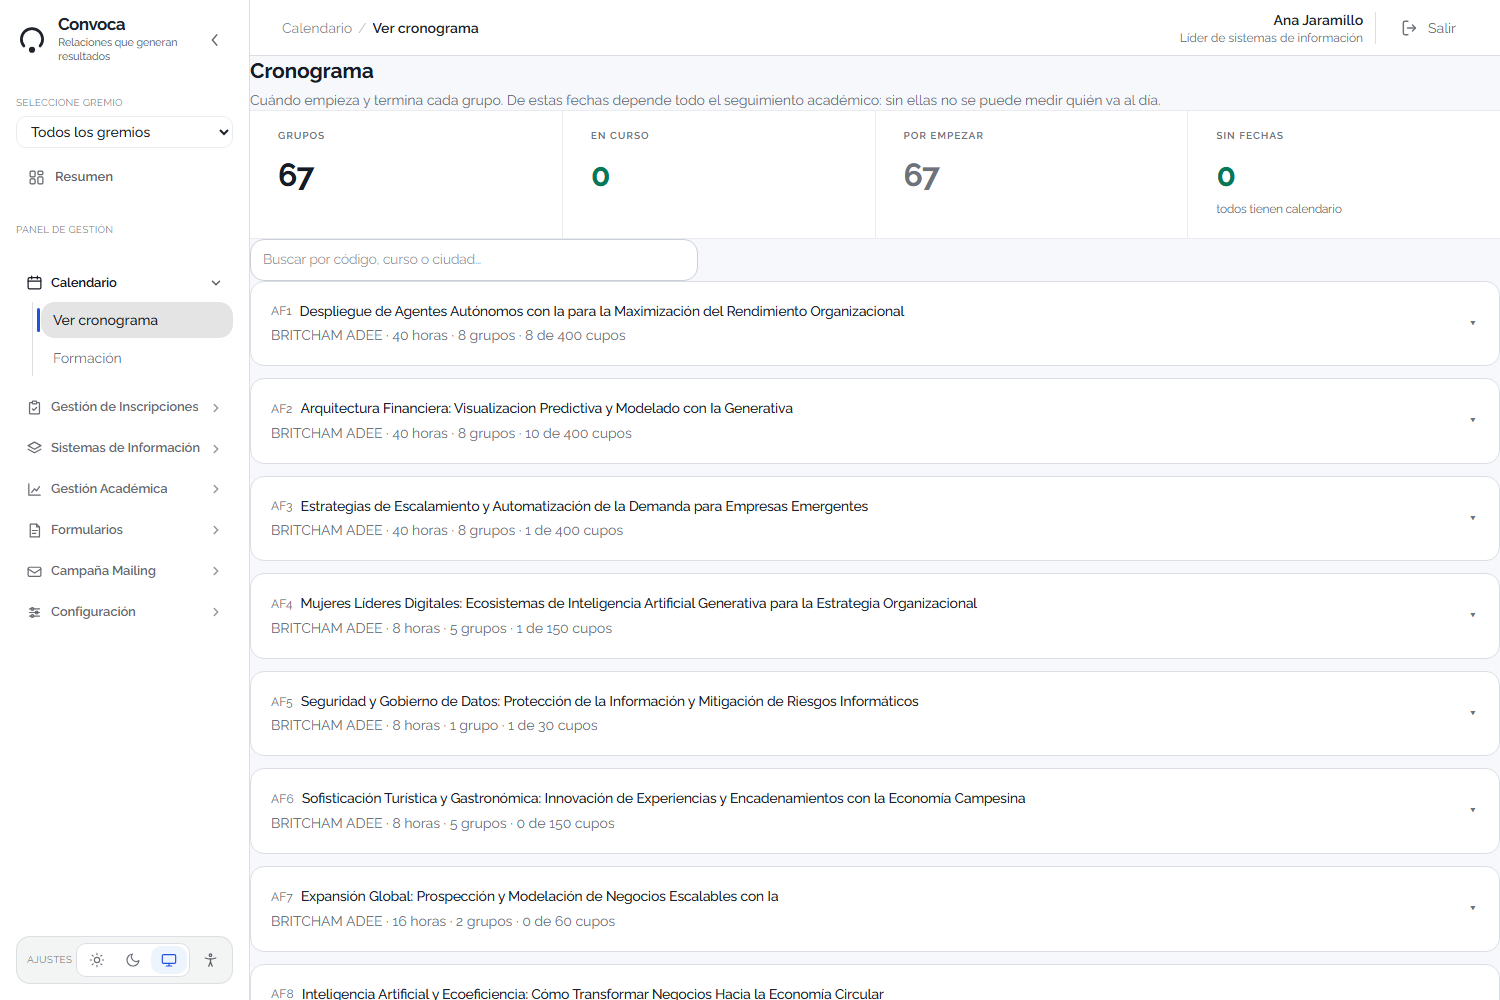
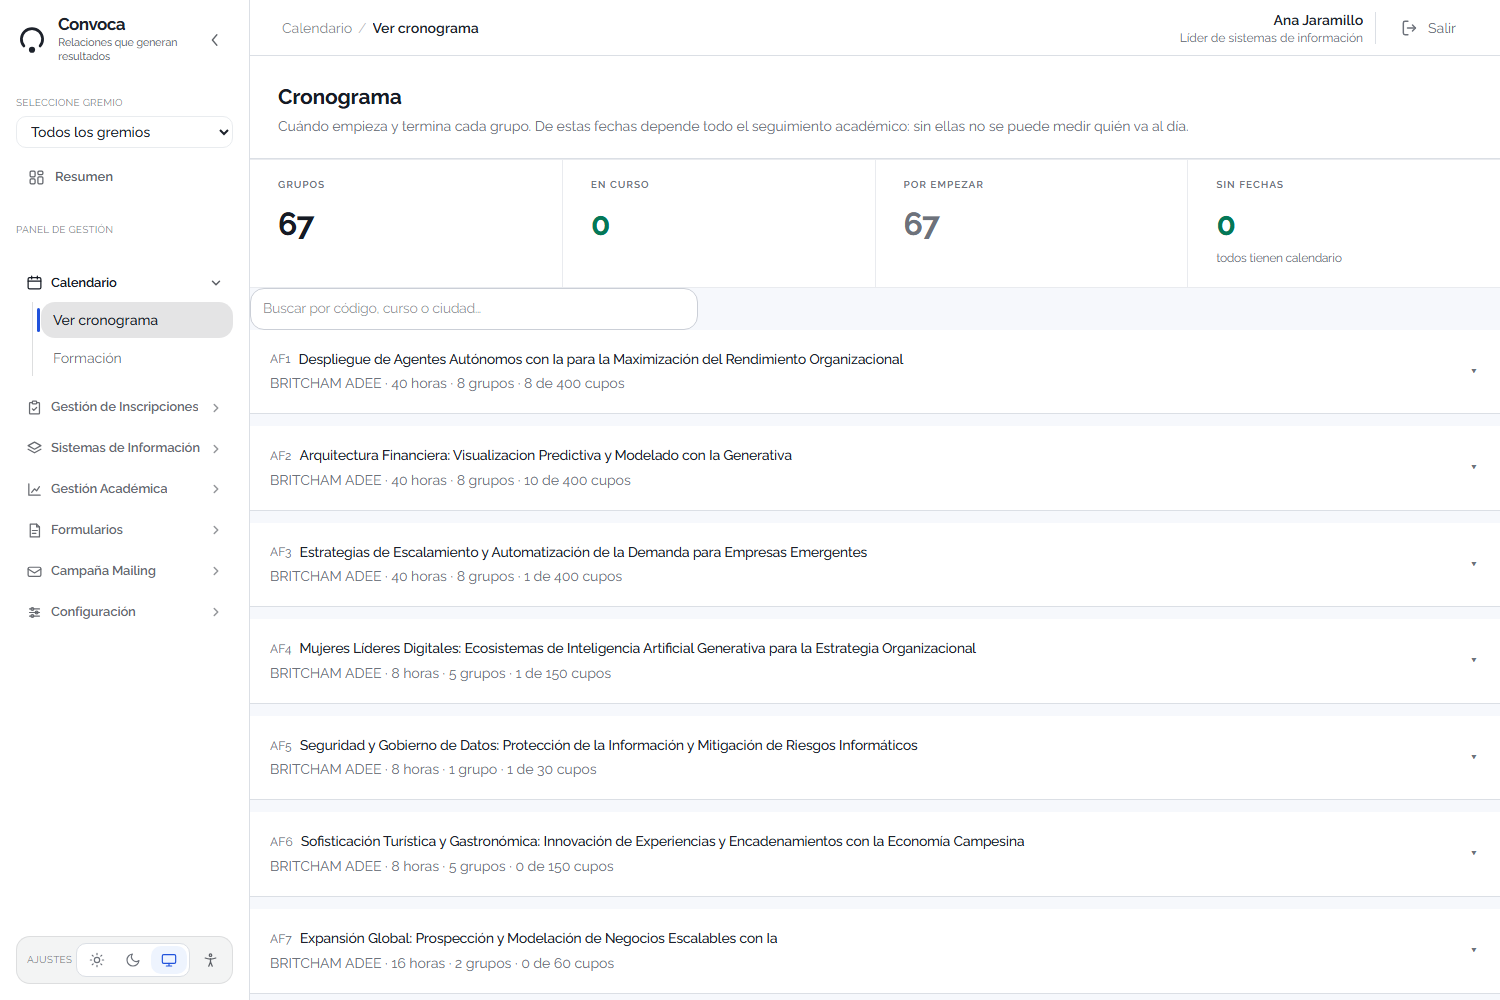
Cabeceras, relleno de las tablas y el primario en azul
Las 16 cabeceras que iban peladas pasan a banda con su relleno. El
contenedor dejo de poner el margen lateral para que las bandas
vayan a sangre, y sin esto el titulo quedaba pegado al canto.

Lo mismo en las cinco pantallas de tabla: el relleno lo pone ahora
la pantalla. La TABLA si sale entera, que es de trabajo y en un
monitor grande se aprovecha el ancho; lo que necesitaba margen era
la barra de busqueda y la paginacion.

Comprobado midiendo en el navegador, no a ojo: un guion recorre las
25 pantallas y avisa de todo lo que empiece a menos de 12px del
canto. Quedaban cinco; ahora ninguna.

Y el boton primario vuelve al azul de marca donde seguia en verde
-- «Guardar gestion», «Escribir un correo» y el rail de la ficha --,
que es lo que fija DECISIONES 10. Iban con el hexadecimal escrito a
mano, que ademas de ignorar el color del gremio no sabe que existe
el modo oscuro: ahora salen del token.

Las pildoras de estado que quedaban fuera de `Pildora` pasan
tambien a color en la letra. Solo las que llevaban `rounded-full`:
un fondo tenido en un toast, en un mensaje de error o en la opcion
elegida de un desplegable SI es el fondo del elemento, y ahi se
queda.

diff --git a/frontend/src/components/admin/piezas.tsx b/frontend/src/components/admin/piezas.tsx
@@ -135,11 +135,21 @@ export function Encabezado({
   children?: React.ReactNode;
 }) {
   return (
-    <header className="mb-6 flex flex-wrap items-start justify-between gap-4">
+    /// Una banda mas, con su relleno propio.
+    ///
+    /// Llevaba `mb-6` y ningun relleno lateral: eso funcionaba
+    /// cuando el contenedor de la pagina ponia el margen. Ahora
+    /// las secciones van a sangre y el relleno lo pone cada una,
+    /// asi que sin esto el titulo quedaba pegado al canto.
+    <header className="flex flex-wrap items-start justify-between gap-4 border-b border-borde bg-superficie px-7 pt-[26px] pb-[22px]">
       <div className="min-w-0">
-        <h1 className="text-2xl font-bold tracking-tight">{titulo}</h1>
+        <h1 className="text-[1.3125rem] font-bold tracking-[-0.02em] text-titulo">
+          {titulo}
+        </h1>
         {descripcion && (
-          <p className="mt-1 max-w-2xl text-sm text-texto-suave">{descripcion}</p>
+          <p className="mt-1.5 max-w-[760px] text-[0.78125rem] leading-relaxed text-texto-suave">
+            {descripcion}
+          </p>
         )}
       </div>
       {children && <div className="flex shrink-0 flex-wrap gap-2">{children}</div>}

diff --git a/frontend/src/app/admin/participantes/[id]/page.tsx b/frontend/src/app/admin/participantes/[id]/page.tsx
@@ -725,7 +725,7 @@ export default function PaginaFicha() {
                             height: 11,
                             borderRadius: "50%",
                             background: "#fff",
-                            border: "2.5px solid #16a06a",
+                            border: "2.5px solid var(--marca)",
                           }}
                         />
                         <div style={{ fontSize: 13.5, color: "#334155" }}>
@@ -1108,9 +1108,11 @@ const E = {
     gap: 9,
   },
   /// Los tres botones del rail, tal cual el diseno.
+  /// Azul de marca (DECISIONES 10), y por token: un hex a
+  /// mano no sabe que existe el modo oscuro.
   botonVerde: {
-    background: "#16a06a",
-    color: "#fff",
+    background: "var(--marca)",
+    color: "var(--marca-texto)",
     border: "none",
     borderRadius: 11,
     padding: 13,
@@ -1601,7 +1603,7 @@ function RegistrarAutorizacion({
   const [evidencia, setEvidencia] = useState("");
 
   return (
-    <div className="space-y-4">
+    <div>
       <Aviso tipo="error">
         Esta persona todavía no ha autorizado el tratamiento de sus datos. Sin eso no se
         puede matricular ni incluir en el reporte al SENA.

diff --git a/frontend/src/app/admin/politicas/page.tsx b/frontend/src/app/admin/politicas/page.tsx
@@ -75,7 +75,7 @@ export default function PaginaPoliticas() {
 
   return (
     <div>
-      <header>
+      <header className="border-b border-borde bg-superficie px-7 pt-[26px] pb-[22px]">
         <h1 className="text-[1.3125rem] font-bold tracking-[-0.02em] text-titulo">Políticas de datos</h1>
         <p className="mt-1 text-texto-suave">
           El texto que la gente acepta. Se versiona: el que alguien ya aceptó no se
@@ -134,8 +134,8 @@ export default function PaginaPoliticas() {
                     <span
                       className={
                         vigente
-                          ? "rounded-full bg-exito-suave px-3 py-1 text-sm"
-                          : "rounded-full bg-error-suave px-3 py-1 text-sm"
+                          ? "whitespace-nowrap font-semibold text-exito text-sm"
+                          : "whitespace-nowrap font-semibold text-error text-sm"
                       }
                     >
                       {vigente ? `Vigente · v${vigente.version}` : "Sin publicar"}

diff --git a/frontend/src/app/admin/participantes/page.tsx b/frontend/src/app/admin/participantes/page.tsx
@@ -95,7 +95,7 @@ export default function PaginaParticipantes() {
   /// sesión caducó o si hay un fallo de datos. Ahora lo dice.
   if (error && !filas) {
     return (
-      <div className="space-y-4">
+      <div>
         <Aviso tipo="error">
           <p className="font-medium">No se pudo cargar la lista</p>
           <p className="mt-1">{error}</p>
@@ -133,8 +133,12 @@ export default function PaginaParticipantes() {
   const hayFiltro = cuantos > 0;
 
 
+  /// El relleno lateral lo pone la pantalla, no el
+  /// marco: el contenedor dejo de ponerlo para que las
+  /// bandas vayan a sangre, y sin esto la barra de
+  /// busqueda y la paginacion quedaban pegadas al canto.
   return (
-    <div className="flex min-h-0 grow flex-col gap-6">
+    <div className="flex min-h-0 grow flex-col gap-4 px-7 pt-5">
       {error && <Aviso tipo="error">{error}</Aviso>}
 
       {/* El orden es el del tablero de abajo: se filtra por lo

diff --git a/frontend/src/components/admin/tabla.tsx b/frontend/src/components/admin/tabla.tsx
@@ -716,7 +716,7 @@ export function Tabla<T>({
           )}
 
           {todasLasQueCoinciden && totalServidor !== null && (
-            <span className="rounded-full bg-aviso-suave px-2.5 py-1 text-xs text-aviso">
+            <span className="whitespace-nowrap font-semibold text-xs text-aviso">
               Sobre las {(filas?.length ?? 0).toLocaleString("es-CO")} cargadas de{" "}
               {totalServidor.toLocaleString("es-CO")}
             </span>
@@ -1447,7 +1447,7 @@ function Pie({
       </span>
 
       {faltan && (
-        <span className="rounded-full bg-aviso-suave px-2.5 py-1 text-aviso">
+        <span className="whitespace-nowrap font-semibold text-aviso">
           Filtrando sobre {cargadas.toLocaleString("es-CO")} de{" "}
           {total.toLocaleString("es-CO")}
           {alCargarTodo && (

diff --git a/frontend/src/app/admin/instituciones/page.tsx b/frontend/src/app/admin/instituciones/page.tsx
@@ -236,9 +236,13 @@ export default function PaginaInstituciones() {
     [],
   );
 
+  /// El relleno lateral lo pone la pantalla, no el
+  /// marco: el contenedor dejo de ponerlo para que las
+  /// bandas vayan a sangre, y sin esto la barra de
+  /// busqueda y la paginacion quedaban pegadas al canto.
   return (
-    <div className="flex min-h-0 grow flex-col gap-6">
-      <header>
+    <div className="flex min-h-0 grow flex-col gap-4 px-7 pt-5">
+      <header className="border-b border-borde bg-superficie px-7 pt-[26px] pb-[22px]">
         {/* sin título: lo dice la miga. La cifra se fue al
             lado del buscador, que es donde se mira cuando uno
             está filtrando */}

diff --git a/frontend/src/app/admin/participantes/academico/page.tsx b/frontend/src/app/admin/participantes/academico/page.tsx
@@ -160,7 +160,7 @@ export default function PaginaAcademico() {
             Quién va al día y quién no, contra el calendario de su grupo.
           </p>
           {resumen.analizadas < resumen.total && (
-            <p className="mt-2 inline-block rounded-full bg-aviso-suave px-3 py-1 text-sm text-aviso">
+            <p className="mt-2 inline-block whitespace-nowrap font-semibold text-sm text-aviso">
               Hay {resumen.total.toLocaleString("es-CO")} personas en el aula y se están
               mirando las {resumen.analizadas.toLocaleString("es-CO")} más recientes. Filtre
               por acción o por grupo para ver el resto.

diff --git a/frontend/src/app/admin/inscritos/page.tsx b/frontend/src/app/admin/inscritos/page.tsx
@@ -51,8 +51,12 @@ export default function PaginaInscritos() {
 
   const { listado } = vivos.datos;
 
+  /// El relleno lateral lo pone la pantalla, no el
+  /// marco: el contenedor dejo de ponerlo para que las
+  /// bandas vayan a sangre, y sin esto la barra de
+  /// busqueda y la paginacion quedaban pegadas al canto.
   return (
-    <div className="flex min-h-0 grow flex-col gap-6">
+    <div className="flex min-h-0 grow flex-col gap-4 px-7 pt-5">
       {/* Entre la miga y la tabla no queda nada: el buscador
           de la propia tabla ya filtra, y tener dos cajas de
           búsqueda en la misma pantalla solo hace dudar de

diff --git a/frontend/src/app/admin/reservas/page.tsx b/frontend/src/app/admin/reservas/page.tsx
@@ -216,8 +216,12 @@ export default function PaginaReservas() {
     [],
   );
 
+  /// El relleno lateral lo pone la pantalla, no el
+  /// marco: el contenedor dejo de ponerlo para que las
+  /// bandas vayan a sangre, y sin esto la barra de
+  /// busqueda y la paginacion quedaban pegadas al canto.
   return (
-    <div className="flex min-h-0 grow flex-col gap-6">
+    <div className="flex min-h-0 grow flex-col gap-4 px-7 pt-5">
       {/* Sin título ni conteo: lo dice la miga, y la cifra
           va en el pie de la tabla. El aviso solo aparece si
           el servidor deja de contestar; el resto del tiempo

diff --git a/frontend/src/components/admin/enviar-correo.tsx b/frontend/src/components/admin/enviar-correo.tsx
@@ -85,12 +85,12 @@ export function EnviarCorreo({ participanteId }: { participanteId: string }) {
   if (!abierto) {
     return (
       /// El boton verde relleno del diseno, con sus valores
-      /// exactos: #16a06a, radio 11, padding 13, 600 14px.
+      /// exactos: `--marca`, radio 11, padding 13, 600 14px.
       <button
         type="button"
         onClick={() => setAbierto(true)}
         style={{
-          background: "#16a06a",
+          background: "var(--marca)",
           color: "#fff",
           border: "none",
           borderRadius: 11,

diff --git a/frontend/src/app/admin/empresas/page.tsx b/frontend/src/app/admin/empresas/page.tsx
@@ -160,8 +160,12 @@ export default function PaginaEmpresas() {
     [],
   );
 
+  /// El relleno lateral lo pone la pantalla, no el
+  /// marco: el contenedor dejo de ponerlo para que las
+  /// bandas vayan a sangre, y sin esto la barra de
+  /// busqueda y la paginacion quedaban pegadas al canto.
   return (
-    <div className="flex min-h-0 grow flex-col gap-6">
+    <div className="flex min-h-0 grow flex-col gap-4 px-7 pt-5">
       {/* sin encabezado: lo dice la miga de arriba, y el
           total va en el pie de la tabla */}
 

diff --git a/frontend/src/components/admin/barra-de-gestion.tsx b/frontend/src/components/admin/barra-de-gestion.tsx
@@ -56,9 +56,12 @@ const D = {
   /// El gris del diseño para «Sin asignar»: un valor vacío no
   /// se lee igual que uno puesto.
   vacio: { color: "#94a3b8" },
+  /// Azul de marca, no el verde del handoff anterior.
+  /// DECISIONES 10 lo fija: el primario es `--marca`, que
+  /// ademas es el color que cada gremio edita.
   boton: {
-    background: "#16a06a",
-    color: "#fff",
+    background: "var(--marca)",
+    color: "var(--marca-texto)",
     border: "none",
     borderRadius: 10,
     padding: "11px 22px",
